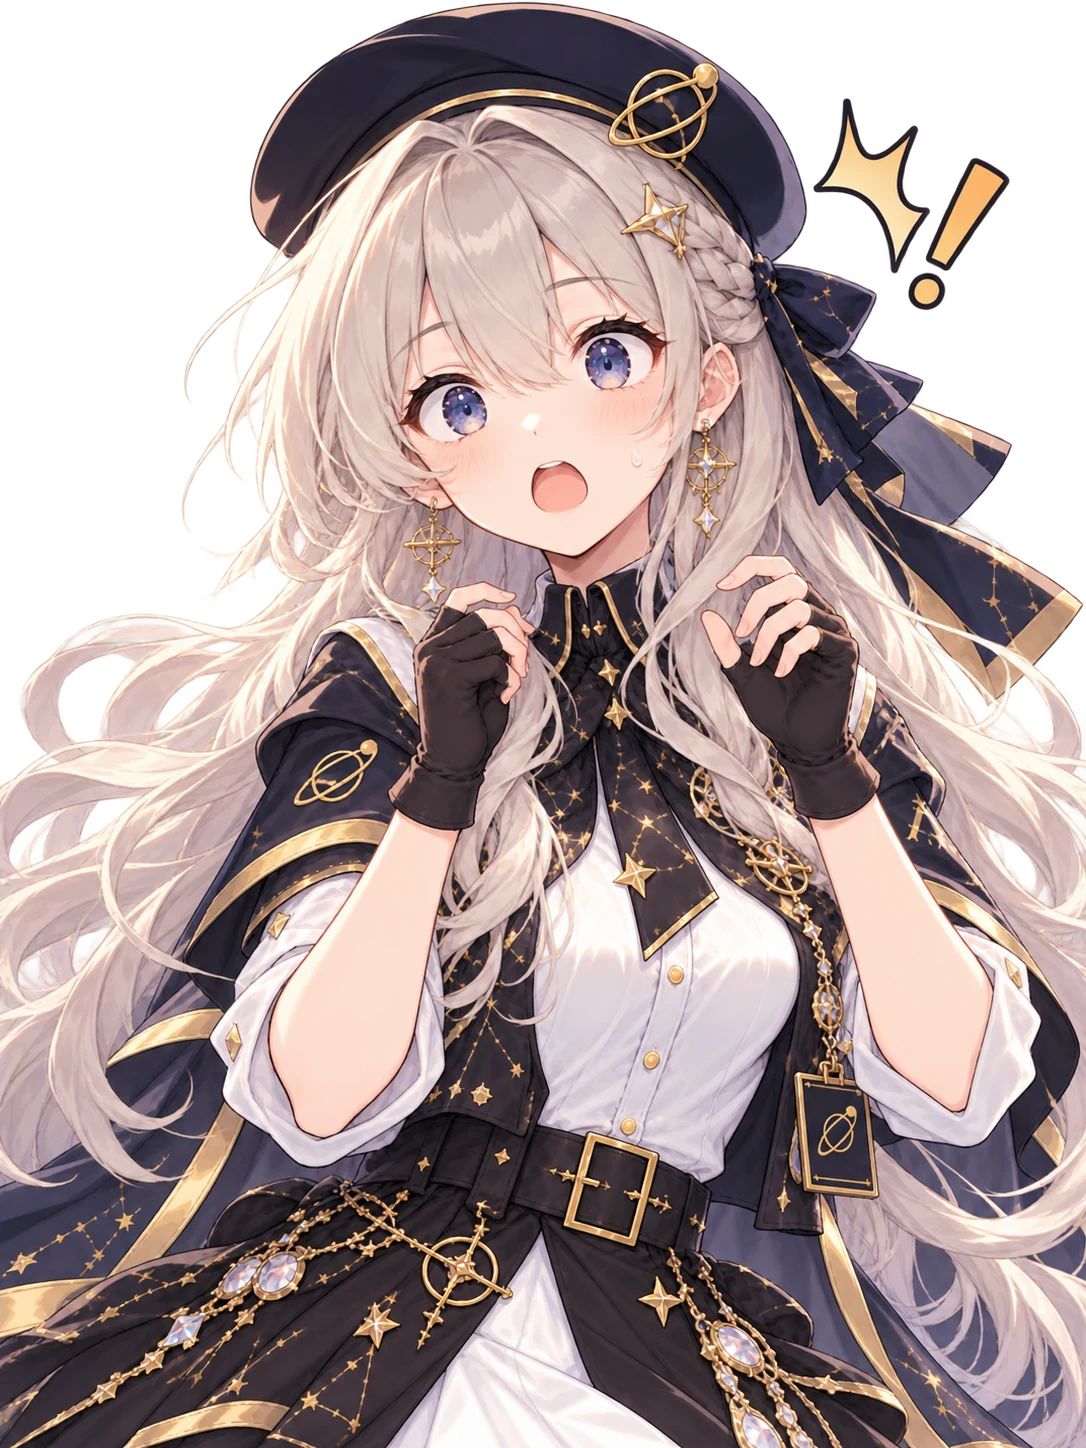
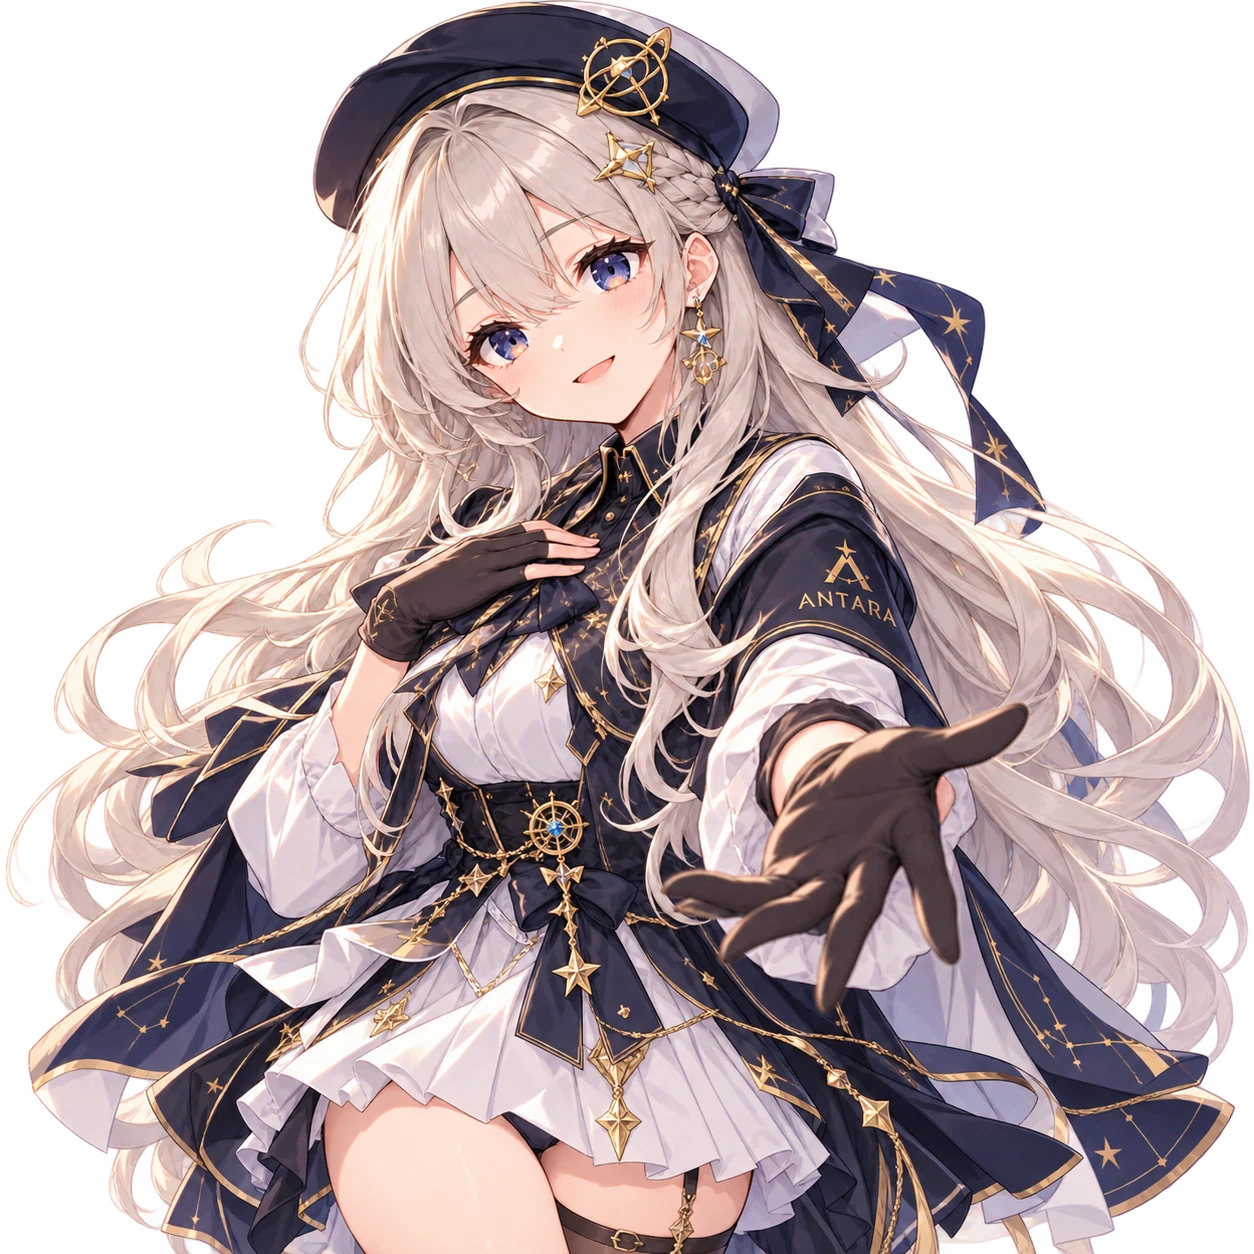
fix: finalize square framing for Nara and Sora

diff --git a/styles.css b/styles.css
@@ -6375,42 +6375,41 @@ h1 { margin: 11px 0 20px; font-size: clamp(47px, 5vw, 82px); text-shadow: 0 7px 
 }
 
 /* ==============================================================
-   SORA 3:4 SEVEN-POSE SET — TARGETED COCKPIT FRAMING (2026-10-02)
-   Uses the supplied portrait sprites while keeping Sora visually balanced
-   with Nara. The lower edge stays behind the existing dashboard so the
-   cockpit framing ends around the skirt / waist area, never the thighs.
+   SORA 1:1 SQUARE SEVEN-POSE SET — TARGETED FRAMING FIX (2026-10-02)
+   The replacement Sora sprites are square, matching the new Nara asset shape.
+   Sora therefore uses the same scale/bottom framing strategy as Nara so both
+   characters stay balanced while the cockpit dashboard hides the thigh area
+   and leaves the skirt visible.
    ============================================================== */
 .companion-b {
-  width: clamp(350px, 26vw, 455px);
-  bottom: 13.5%;
+  width: clamp(400px, 39vw, 560px);
+  bottom: 9%;
 }
 
 @media (max-width: 1100px) {
   .companion-b {
-    width: clamp(300px, 29vw, 400px);
-    bottom: 14%;
+    width: clamp(340px, 39vw, 460px);
+    bottom: 9%;
   }
 }
 
 @media (max-width: 900px) {
   .companion-b {
-    width: clamp(245px, 31vw, 330px);
-    bottom: 16%;
-    right: -1%;
+    width: clamp(260px, 44vw, 360px);
+    bottom: 13%;
   }
 }
 
 @media (max-width: 700px) {
   .companion-b {
-    width: clamp(160px, 42vw, 205px);
-    bottom: 22%;
-    right: 1%;
+    width: clamp(215px, 58vw, 285px);
+    bottom: 18%;
   }
 }
 
 @media (max-height: 700px) and (min-width: 701px) {
   .companion-b {
-    width: clamp(270px, 28vw, 355px);
-    bottom: 8%;
+    width: clamp(330px, 40vw, 520px);
+    bottom: 5.5%;
   }
 }

diff --git a/script.js b/script.js
@@ -578,19 +578,21 @@ const CHARACTER_SPRITES = Object.freeze({
   B: {
     name: "Sora",
     base: "assets/characters/sora/",
-    fallback: "05_warm_smile.webp",
+    // The supplied square-set filenames do not match the visible poses, so
+    // state mapping below intentionally follows the actual artwork.
+    fallback: "07_surprised_exclamation.webp",
     states: Object.freeze({
-      idle: "05_warm_smile.webp",
-      smile: "05_warm_smile.webp",
-      happy: "06_winking_pose.webp",
-      talking: "01_gentle_reaching_out.webp",
-      excited: "04_cheerful_excited.webp",
-      curious: "02_thinking_pose.webp",
-      explaining: "01_gentle_reaching_out.webp",
-      thinking: "02_thinking_pose.webp",
-      surprised: "07_surprised_exclamation.webp",
-      confident: "03_confident_arms_crossed.webp",
-      supportive: "05_warm_smile.webp"
+      idle: "07_surprised_exclamation.webp",
+      smile: "07_surprised_exclamation.webp",
+      happy: "06_wink_peace_reaching.webp",
+      talking: "01_confident_arms_crossed.webp",
+      excited: "04_cheerful_fists_up.webp",
+      curious: "03_inviting_hand.webp",
+      explaining: "01_confident_arms_crossed.webp",
+      thinking: "03_inviting_hand.webp",
+      surprised: "05_thinking_pose.webp",
+      confident: "02_open_arms_welcome.webp",
+      supportive: "07_surprised_exclamation.webp"
     })
   }
 });

diff --git a/index.html b/index.html
@@ -171,7 +171,7 @@
 
         <article class="companion companion-b" id="companion-b" data-state="idle" data-expression="calm" aria-label="Sora, teman perjalanan ANTARA">
           <div class="character-sprite-frame">
-            <img class="character-sprite" id="sora-sprite" src="assets/characters/sora/05_warm_smile.webp" alt="Sora, pemandu ANTARA" draggable="false">
+            <img class="character-sprite" id="sora-sprite" src="assets/characters/sora/07_surprised_exclamation.webp" alt="Sora, pemandu ANTARA" draggable="false">
           </div>
         </article>
 
